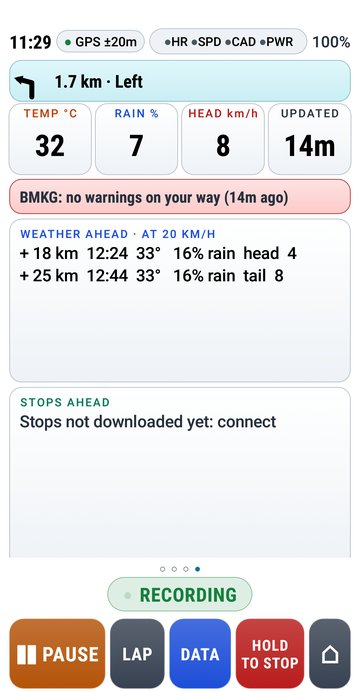
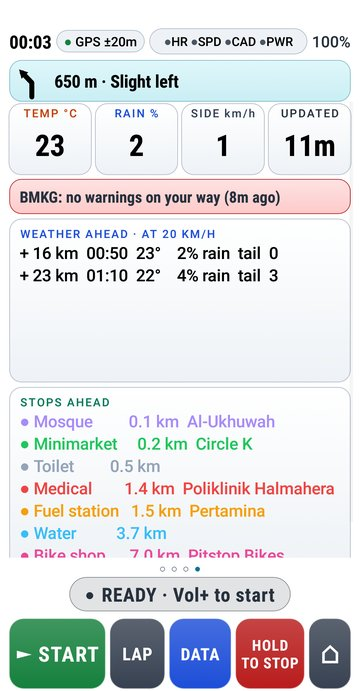
Screenshots for 0.15.2: Ahead page with stops ahead (day and night)

diff --git a/README.md b/README.md
@@ -26,6 +26,11 @@ Free beta · no account · no ads · about 3 MB
 - **Fixed: an empty GPX no longer replaces your route.** A file with no points is refused, and your route stays.
 - **Faster sync for a new route:** stops first, weather warnings after, and a busy server is left sooner.
 
+<p>
+<img src="docs/img/ahead-day.jpg" width="230" alt="Ahead page with Stops ahead filled in: the next mosque, minimarket, toilet, clinic, fuel station, water and bike shop along the route, each with its distance and name">&nbsp;
+<img src="docs/img/ahead-night.jpg" width="230" alt="The same Ahead page in night colours">
+</p>
+
 From 0.15.1 "Britomart":
 
 - **Faster GPS start.** When the last fix is old, Cyclone asks for fresh GPS time and orbit data, so a first fix under open sky takes seconds on most phones.
@@ -109,7 +114,7 @@ The download is incomplete. Delete it and download again, on Wi-Fi if you can. O
 
 | Map | Climb | Ahead |
 |:---:|:---:|:---:|
-| <img src="docs/img/map-day.jpg" width="230" alt="Map page: offline map with the route in pink, your position and the next turn"> | <img src="docs/img/climb-day.jpg" width="230" alt="Climb page: altitude, grade, VAM, the next climb and a profile coloured by gradient"> | <img src="docs/img/ahead-day.jpg" width="230" alt="Ahead page: temperature, rain, wind, BMKG warnings and the weather along the route"> |
+| <img src="docs/img/map-day.jpg" width="230" alt="Map page: offline map with the route in pink, your position and the next turn"> | <img src="docs/img/climb-day.jpg" width="230" alt="Climb page: altitude, grade, VAM, the next climb and a profile coloured by gradient"> | <img src="docs/img/ahead-day.jpg" width="230" alt="Ahead page: temperature, rain, wind, BMKG warnings, the weather along the route and the next stops"> |
 | <img src="docs/img/map-night.jpg" width="230" alt="Map page in night colours"> | <img src="docs/img/climb-night.jpg" width="230" alt="Climb page in night colours"> | <img src="docs/img/ahead-night.jpg" width="230" alt="Ahead page in night colours"> |
 
 <img src="docs/img/home-night.jpg" width="230" alt="Home screen in night colours">&nbsp;
